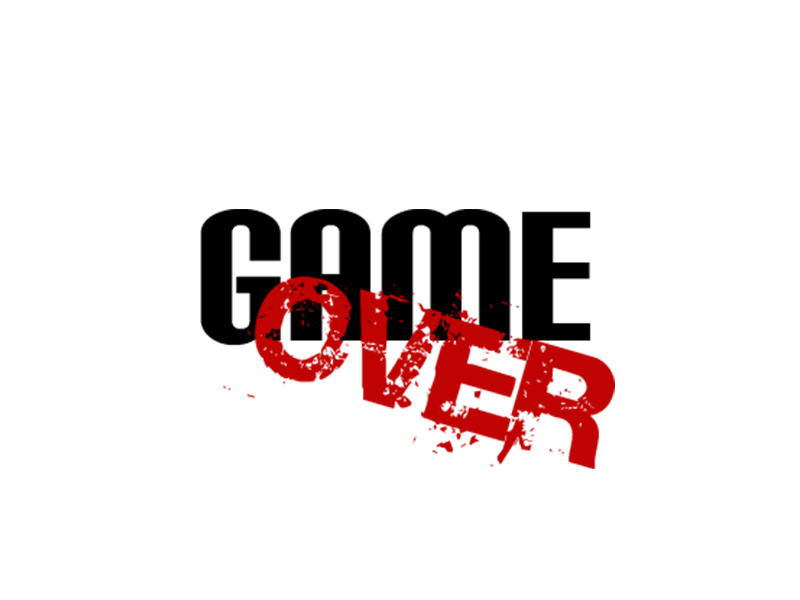
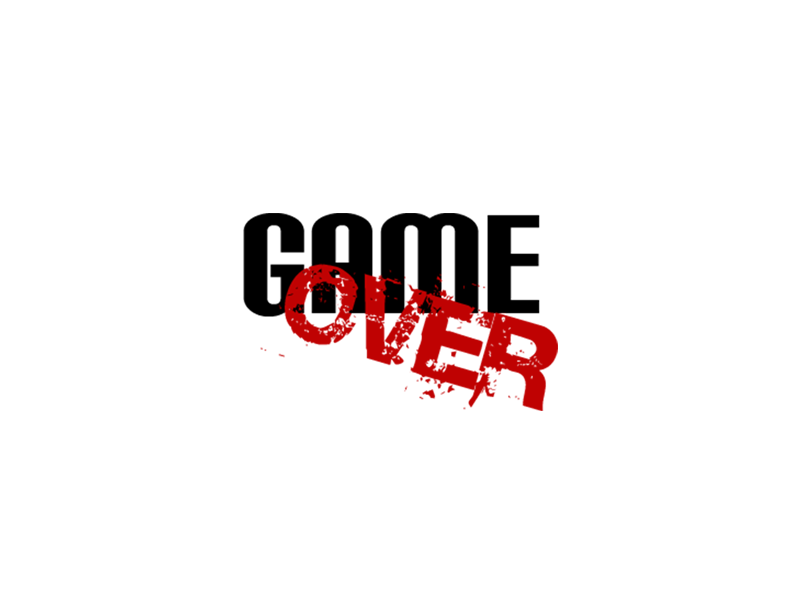
죽으면 메뉴버튼 띄우기

Changed region(s): [[0.25, 0.33, 0.7812, 0.78]]

diff --git a/term/game_state.py b/term/game_state.py
@@ -1,6 +1,7 @@
 from pico2d import *
 import game_framework
 import game_world
+import store_state
 import random
 from Player import Player
 from Bullet import Bullet
@@ -9,6 +10,7 @@ from Coin import Coin
 from Ai import Ai
 from AiBullet import Missile
 from AiLife import AiLife
+from Ui import Button
 
 name = "GameState"
 image = None
@@ -34,6 +36,20 @@ class die:
         self.image = load_image('image/gameover.png')
     def draw(self):
         self.image.draw(400,300)
+
+buttons = []
+def selectButton(b):
+    size = len(buttons)
+    for i in range(size):
+        if buttons[i] == b:
+            print(str(i) + ' has been selected')
+            buttons[i].selected = True
+            # if buttons[0].selected == True:
+            #     game_framework.change_state(game_state)
+            if buttons[1].selected == True:
+                game_framework.change_state(store_state)
+        else:
+            buttons[i].selected = False
 
 class start:
     def __init__(self):
@@ -78,6 +94,10 @@ def enter():
     global gameState
     gameState = GAMESTATE_READY
     game_world.isPaused = isPaused
+    global buttons
+    buttons.append(Button('image/replay.png', 'image/replay.png', 200, 140))
+    buttons.append(Button('image/store.png', 'image/store.png', 400, 140))
+    buttons.append(Button('image/exit.png', 'image/exit.png', 600, 140))
 
 def isPaused():
     global gameState
@@ -148,6 +168,8 @@ def draw():
     if life.heart <= 0:
         life.heart = 0
         die.draw()
+        for b in buttons:
+            b.draw()
 
     update_canvas()
 
@@ -181,7 +203,6 @@ def update():
         collides = collides_distance(player, m)
         if (collides):
             life.heart -= 1
-            print("player life = ",life.heart)
             game_world.remove_object(m)
             break
 
@@ -189,6 +210,8 @@ def update():
     if (collides):
         life.heart = 0
         die.draw()
+        for b in buttons:
+            b.draw()
 
     for member in bullets:
         member.update()
@@ -198,6 +221,8 @@ def update():
             bullets = [b for b in bullets if b.shouldDelete]
             break
     bullets = [b for b in bullets if not b.shouldDelete]
+
+
 
 def handle_events():
     global running

diff --git a/term/store_state.py b/term/store_state.py
@@ -53,7 +53,6 @@ def selectButton(b):
                 coin.coin -= 200
                 if coin.coin <= 0:
                     coin.coin = 0
-
         else:
             buttons[i].selected = False
 
